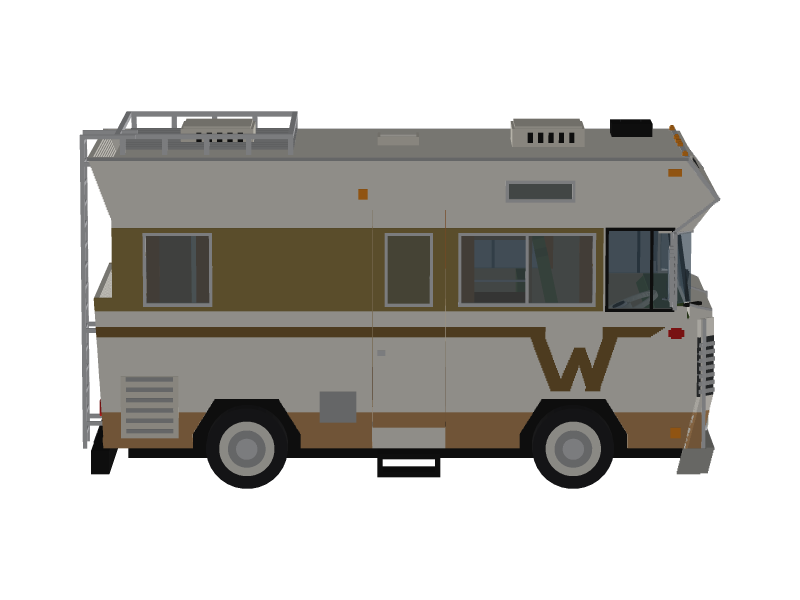
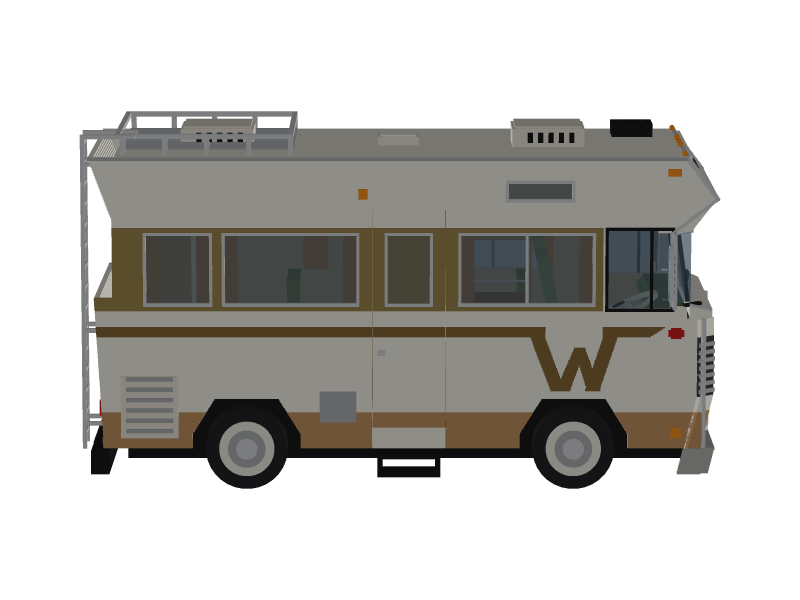
Add a camper window over the counter and the stove

Changed region(s): [[0.25, 0.39, 0.4688, 0.51]]

diff --git a/tools/gen_camper.py b/tools/gen_camper.py
@@ -222,8 +222,9 @@ for a0, a1 in ARCHES:  # straight up to ARCH_SLOPE_Y, then sloping in by ARCH_IN
         inset = ARCH_INSET * (i + 0.5) / n
         y = ARCH_SLOPE_Y + i * ARCH_STEP
         arch_holes.append((a0 + inset, a1 - inset, y, y + ARCH_STEP))
-# No window between the door and the shower room, above the counter (ADR 0093, 0103).
-right_windows = [CAB_WIN, (-35, -10, *WIN_Y), (38, 50, *WIN_Y), (-31, -19, 56, 59)]
+# The window over the counter is as long as the one ahead of the door and centered between
+# the door and the rear window, so the stove and the sink look out (ADR 0113).
+right_windows = [CAB_WIN, (-35, -10, *WIN_Y), (10, 35, *WIN_Y), (38, 50, *WIN_Y), (-31, -19, 56, 59)]
 left_windows = [CAB_WIN, (-29, -5, *WIN_Y), (-19, -8, 56, 59), (16, 21, *WIN_Y), (40, 49, *WIN_Y)]
 for x0, x1, windows in ((HW - 1, HW, right_windows), (-HW, -HW + 1, left_windows)):
     right = x0 > 0

diff --git a/docs/adr/README.md b/docs/adr/README.md
@@ -96,7 +96,7 @@ This directory records design decisions and the reasons behind them. The format 
 | [0090](0090-group-the-vehicle-core-by-subcontext.md) | Group the vehicle core by subcontext | Accepted |
 | [0091](0091-alpha-blend-only-the-camper-glass.md) | Alpha-blend only the camper glass | Accepted |
 | [0092](0092-a-bed-in-the-parked-camper.md) | A bed in the parked camper | Extended by 0093 |
-| [0093](0093-decorate-the-parked-camper.md) | Decorate the parked camper | Superseded in part by 0097, 0098, 0099, 0100, 0102, 0103, and 0106; extended by 0094, 0095, 0096, and 0101 |
+| [0093](0093-decorate-the-parked-camper.md) | Decorate the parked camper | Superseded in part by 0097, 0098, 0099, 0100, 0102, 0103, and 0106; extended by 0094, 0095, 0096, 0101, and 0113 |
 | [0094](0094-the-camper-shower-toilet-door-and-shower.md) | The camper's shower-toilet door and shower | Superseded in part by 0098; extended by 0105 |
 | [0095](0095-sit-on-the-camper-toilet-while-parked.md) | Sit on the camper toilet while parked | Extended by 0098 and 0109 |
 | [0096](0096-keep-the-dock-blocks-whole.md) | Keep a parked vehicle's dock blocks whole | Accepted |
@@ -106,7 +106,7 @@ This directory records design decisions and the reasons behind them. The format 
 | [0100](0100-swap-the-camper-stove-and-sink.md) | Swap the camper stove and sink | Superseded in part by 0107 |
 | [0101](0101-give-invisible-blocks-a-hidden-cube.md) | Give invisible blocks a hidden cube | Accepted |
 | [0102](0102-lift-the-hanging-planter-from-its-cell-bottom.md) | Lift the hanging planter from its cell bottom | Accepted |
-| [0103](0103-raise-the-camper-wall-cabinet-to-the-ceiling.md) | Raise the camper wall cabinet to the ceiling | Accepted |
+| [0103](0103-raise-the-camper-wall-cabinet-to-the-ceiling.md) | Raise the camper wall cabinet to the ceiling | Extended by 0113 |
 | [0104](0104-refuse-a-press-on-a-taken-seat.md) | Refuse a press on a taken seat | Accepted |
 | [0105](0105-toggle-a-camper-door-once-per-swing.md) | Toggle a camper door once per swing | Accepted |
 | [0106](0106-raise-the-camper-dashboard-to-the-windshield.md) | Raise the camper dashboard to the windshield | Accepted |
@@ -115,6 +115,7 @@ This directory records design decisions and the reasons behind them. The format 
 | [0110](0110-pick-decor-slots-along-the-line-of-sight.md) | Pick decor slots along the line of sight | Extended by 0111 |
 | [0111](0111-correct-the-inverted-face-location-height.md) | Correct the inverted face location height | Accepted |
 | [0112](0112-one-burner-on-the-camper-stove.md) | One burner on the camper stove | Accepted |
+| [0113](0113-a-window-over-the-camper-counter.md) | A window over the camper counter | Accepted |
 
 The measurements and in-game tests behind these decisions are in [the driving-core spike findings](../spike-driving-core.md).
 

diff --git a/docs/adr/0113-a-window-over-the-camper-counter.md b/docs/adr/0113-a-window-over-the-camper-counter.md
@@ -1,0 +1,26 @@
+# 0113. A window over the camper counter
+
+- Status: Accepted
+- Date: 2026-10-22
+- Extends: 0067 (the camper's look), 0093 (the right-hand furniture), 0103 (the wall cabinet at the ceiling)
+
+## Context
+
+On the camper's right (door) side, the wall between the door (model z -7 to 7) and the rear right window (z 38 to 50) had no window. The counter with the sink and the stove stands against that wall (0093, 0100, 0112), so a player at the stove or the sink looked at a blank wall. The model only noted "no window between the door and the shower room, above the counter"; no ADR decided it. The owner asked for a window there, the same size as the right window ahead of the door, placed so the side looks balanced (#437).
+
+Since 0103 the wall cabinet over the counter sits at the ceiling, from y 54 to 61, so the wall between the counter top (y 30, with the wall ledge to 31 and the tap to 34) and the cabinet is free at window height (`WIN_Y`, y 36 to 49).
+
+## Decision
+
+- The right side gets a fourth side window at z 10 to 35, y 36 to 49 (`WIN_Y`), in `right_windows` in `tools/gen_camper.py`
+- It is 25 px long, as long as the window ahead of the door (z -35 to -10), and has the same height
+- It is centered in the wall between the door's rear edge (z 7) and the rear right window's front edge (z 38): 3 px of wall on each side
+- It gets what every other side window gets from the shared window loop: the chrome frame, the glass, the curtains drawn to its edges inside (z 10 to 12.5 and 32.5 to 35), the cut in the tan window band, and the holes in the outer wall and in the inner `wall_in` panel
+- No interior part changes. No cube of the counter, the sink, the stove, or the wall cabinet reaches into the opening (x 9 to 23.4, y 36 to 49, z 10 to 35); only the two curtains do
+
+## Consequences
+
+- From the stove and the sink, a player sees outside through the window
+- The right side now reads: front window, door, counter window, rear window, each with wall between them
+- The camper model gains cubes (frame, glass, curtains, and the extra wall panel pieces around the opening). The model changes, so the Resource Pack version goes up (0015), and the README previews are rendered again (0027)
+- Decor on the counter and the stove stands in front of the lower edge of the window, as it already does in front of the wall

diff --git a/docs/adr/0093-decorate-the-parked-camper.md b/docs/adr/0093-decorate-the-parked-camper.md
@@ -1,6 +1,6 @@
 # 0093. Decorate the parked camper
 
-- Status: Accepted (the press on a model-only top, the per-item places, and the cargo check of decor slot cells are superseded by [0097](0097-press-the-camper-furniture-to-place-decor.md), the floor-tap trigger of the shower-toilet by [0098](0098-a-block-for-the-camper-shower-toilet.md), where a hanging item's model ends by [0099](0099-hang-the-camper-planter-inside-its-cell.md), the stove and counter cells by [0100](0100-swap-the-camper-stove-and-sink.md), the ceiling hook slot's height by [0102](0102-lift-the-hanging-planter-from-its-cell-bottom.md), the wall cabinet slots and the dropping of a saved entry with an unknown slot by [0103](0103-raise-the-camper-wall-cabinet-to-the-ceiling.md), and the dashboard cells and slots by [0106](0106-raise-the-camper-dashboard-to-the-windshield.md); extended by [0094](0094-the-camper-shower-toilet-door-and-shower.md), [0095](0095-sit-on-the-camper-toilet-while-parked.md), [0096](0096-keep-the-dock-blocks-whole.md), and [0101](0101-give-invisible-blocks-a-hidden-cube.md))
+- Status: Accepted (the press on a model-only top, the per-item places, and the cargo check of decor slot cells are superseded by [0097](0097-press-the-camper-furniture-to-place-decor.md), the floor-tap trigger of the shower-toilet by [0098](0098-a-block-for-the-camper-shower-toilet.md), where a hanging item's model ends by [0099](0099-hang-the-camper-planter-inside-its-cell.md), the stove and counter cells by [0100](0100-swap-the-camper-stove-and-sink.md), the ceiling hook slot's height by [0102](0102-lift-the-hanging-planter-from-its-cell-bottom.md), the wall cabinet slots and the dropping of a saved entry with an unknown slot by [0103](0103-raise-the-camper-wall-cabinet-to-the-ceiling.md), and the dashboard cells and slots by [0106](0106-raise-the-camper-dashboard-to-the-windshield.md); extended by [0094](0094-the-camper-shower-toilet-door-and-shower.md), [0095](0095-sit-on-the-camper-toilet-while-parked.md), [0096](0096-keep-the-dock-blocks-whole.md), [0101](0101-give-invisible-blocks-a-hidden-cube.md), and [0113](0113-a-window-over-the-camper-counter.md))
 - Date: 2026-10-21
 - Extends: 0009, 0063, 0067, 0068, 0092
 

diff --git a/docs/manual-test.md b/docs/manual-test.md
@@ -176,6 +176,9 @@ Setup: craft the "Sports Boat" item from 5 iron ingots and an oak boat, or use `
 | C121 | Put each of a saucepan, an enamel kettle, a percolator, a toaster, and a cushion on the stove in turn, in all four facings, taking each back with an empty hand | Each item stands centered on the burner, on the grate, not floating and not sunk into it, and none pokes through the wall or the vent band (ADR 0112) | | |
 | C122 | On a build before this change, park and put a saucepan on the wall-side burner toward the far end of the stove; update to this change, restart the server, and look inside | The saucepan stands on the stove's one burner in the middle; no item is left floating where the old burner was, and the empty-hand press takes it back (ADR 0112) | | |
 | C123 | On a build before this change, park and put a kettle on a stove burner; update, restart, and break the camper into its item | The kettle comes back to you (ADR 0103, 0112) | | |
+| C130 | Park the camper and walk around its right (door) side, on a phone and on PC | A window with a chrome frame sits between the door and the rear right window, as long and as high as the window ahead of the door, with the same wall width on both sides; the tan band is cut around it (ADR 0113) | | |
+| C131 | Inside the parked camper, stand in the aisle at the stove, then at the sink, and look at the wall behind them | You see outside through the window, between the counter top and the wall cabinet; curtains hang at both ends of the window and nothing else covers it (ADR 0113) | | |
+| C132 | Put a saucepan on the stove and a mug pair on the counter, then look at them from outside through the new window | Both items show through the glass; no wall or furniture face flickers in the window opening (ADR 0113) | | |
 
 ## Upgrading from MyCar 0.5.0 and earlier
 

diff --git a/docs/adr/0103-raise-the-camper-wall-cabinet-to-the-ceiling.md b/docs/adr/0103-raise-the-camper-wall-cabinet-to-the-ceiling.md
@@ -1,6 +1,6 @@
 # 0103. Raise the camper wall cabinet to the ceiling
 
-- Status: Accepted
+- Status: Accepted (extended by [0113](0113-a-window-over-the-camper-counter.md))
 - Date: 2026-10-21
 - Supersedes in part: 0093 (the wall cabinet slots, and dropping a saved entry with an unknown slot on load), 0097 (the wall cabinet halves among the standing slots)
 
